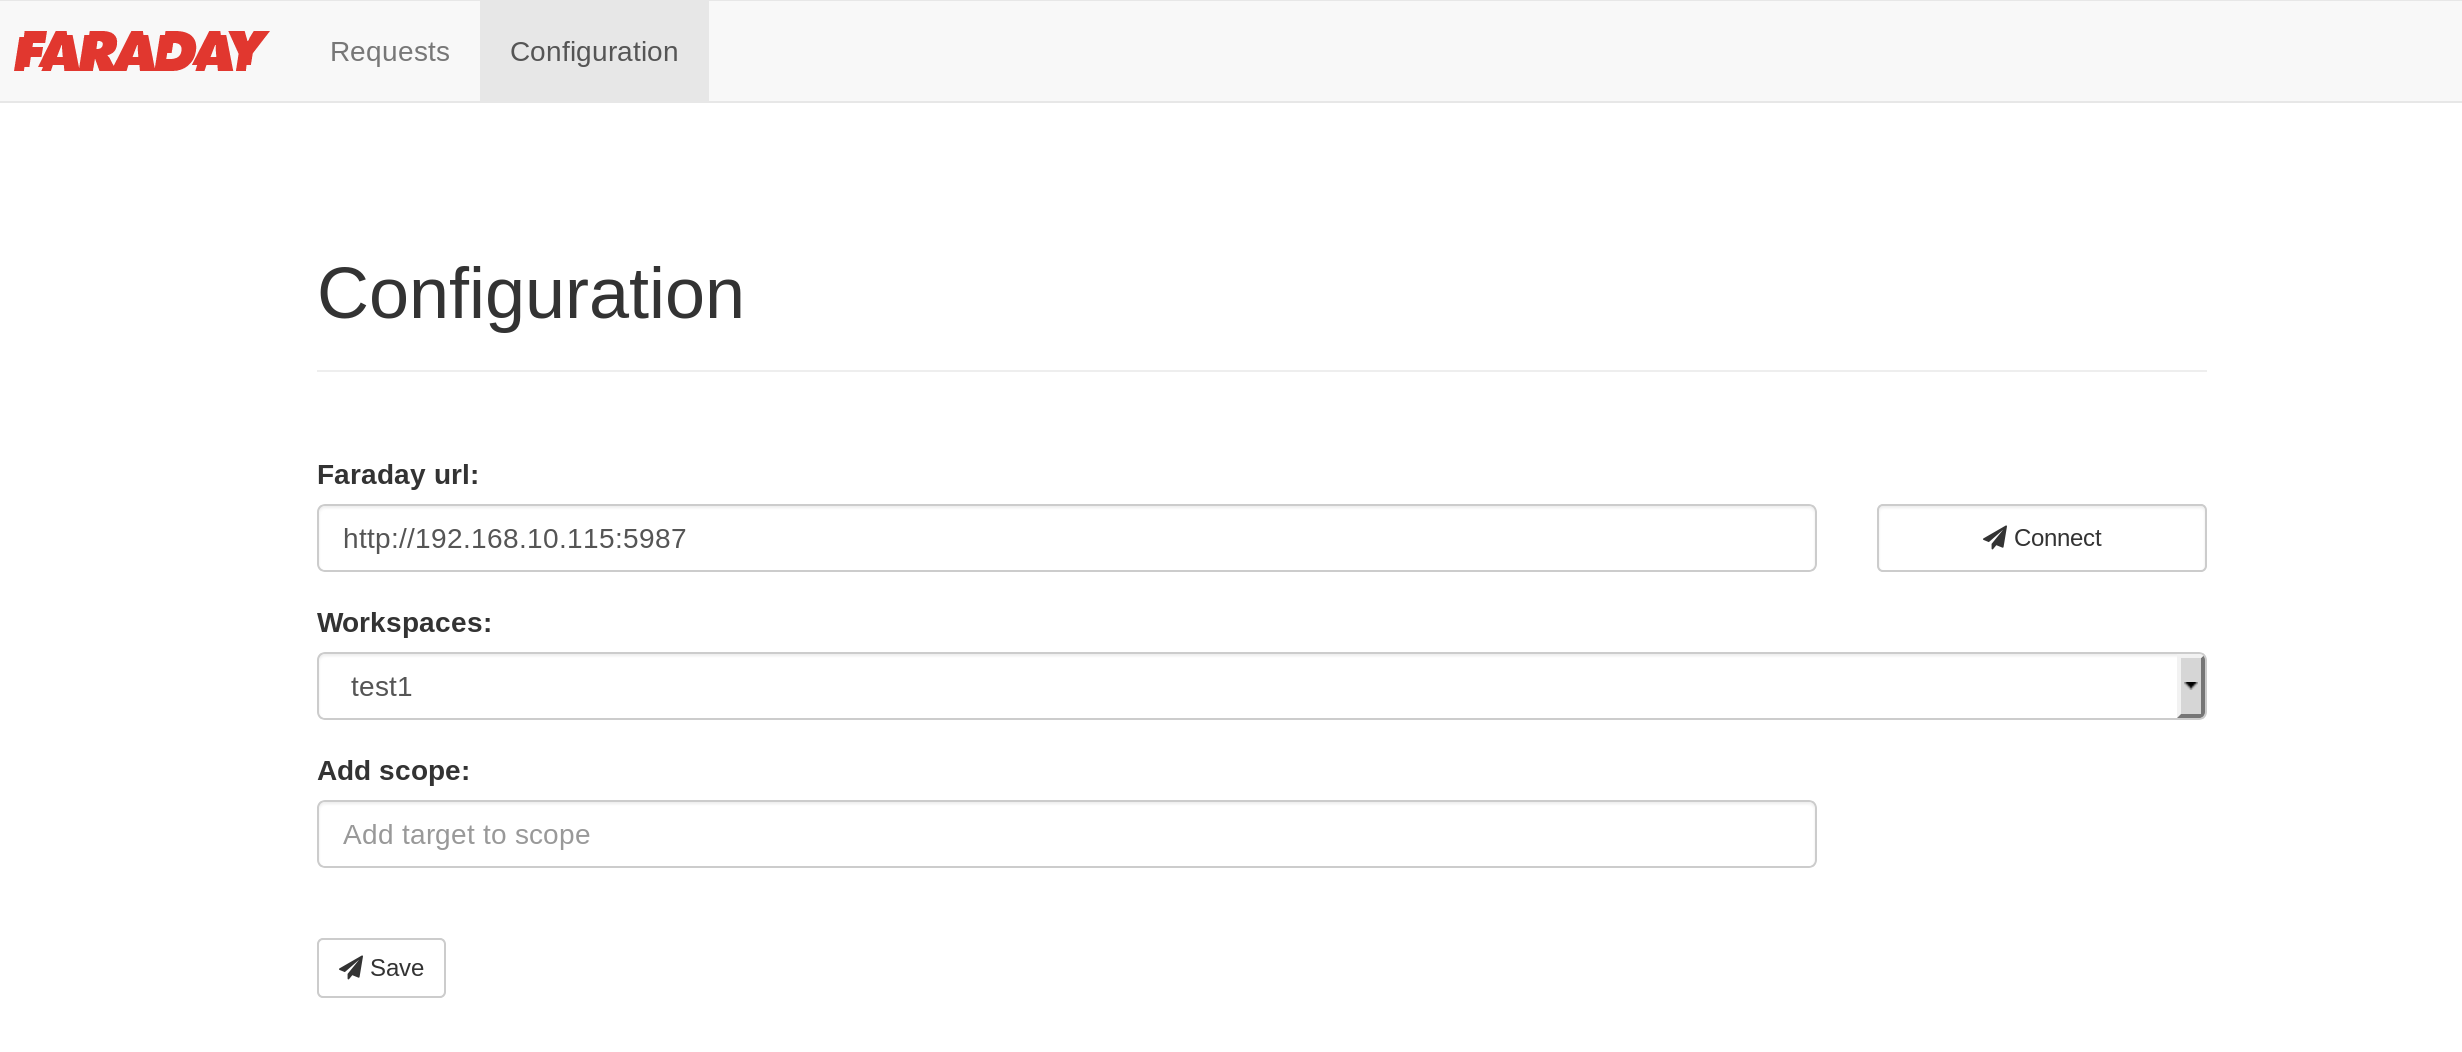
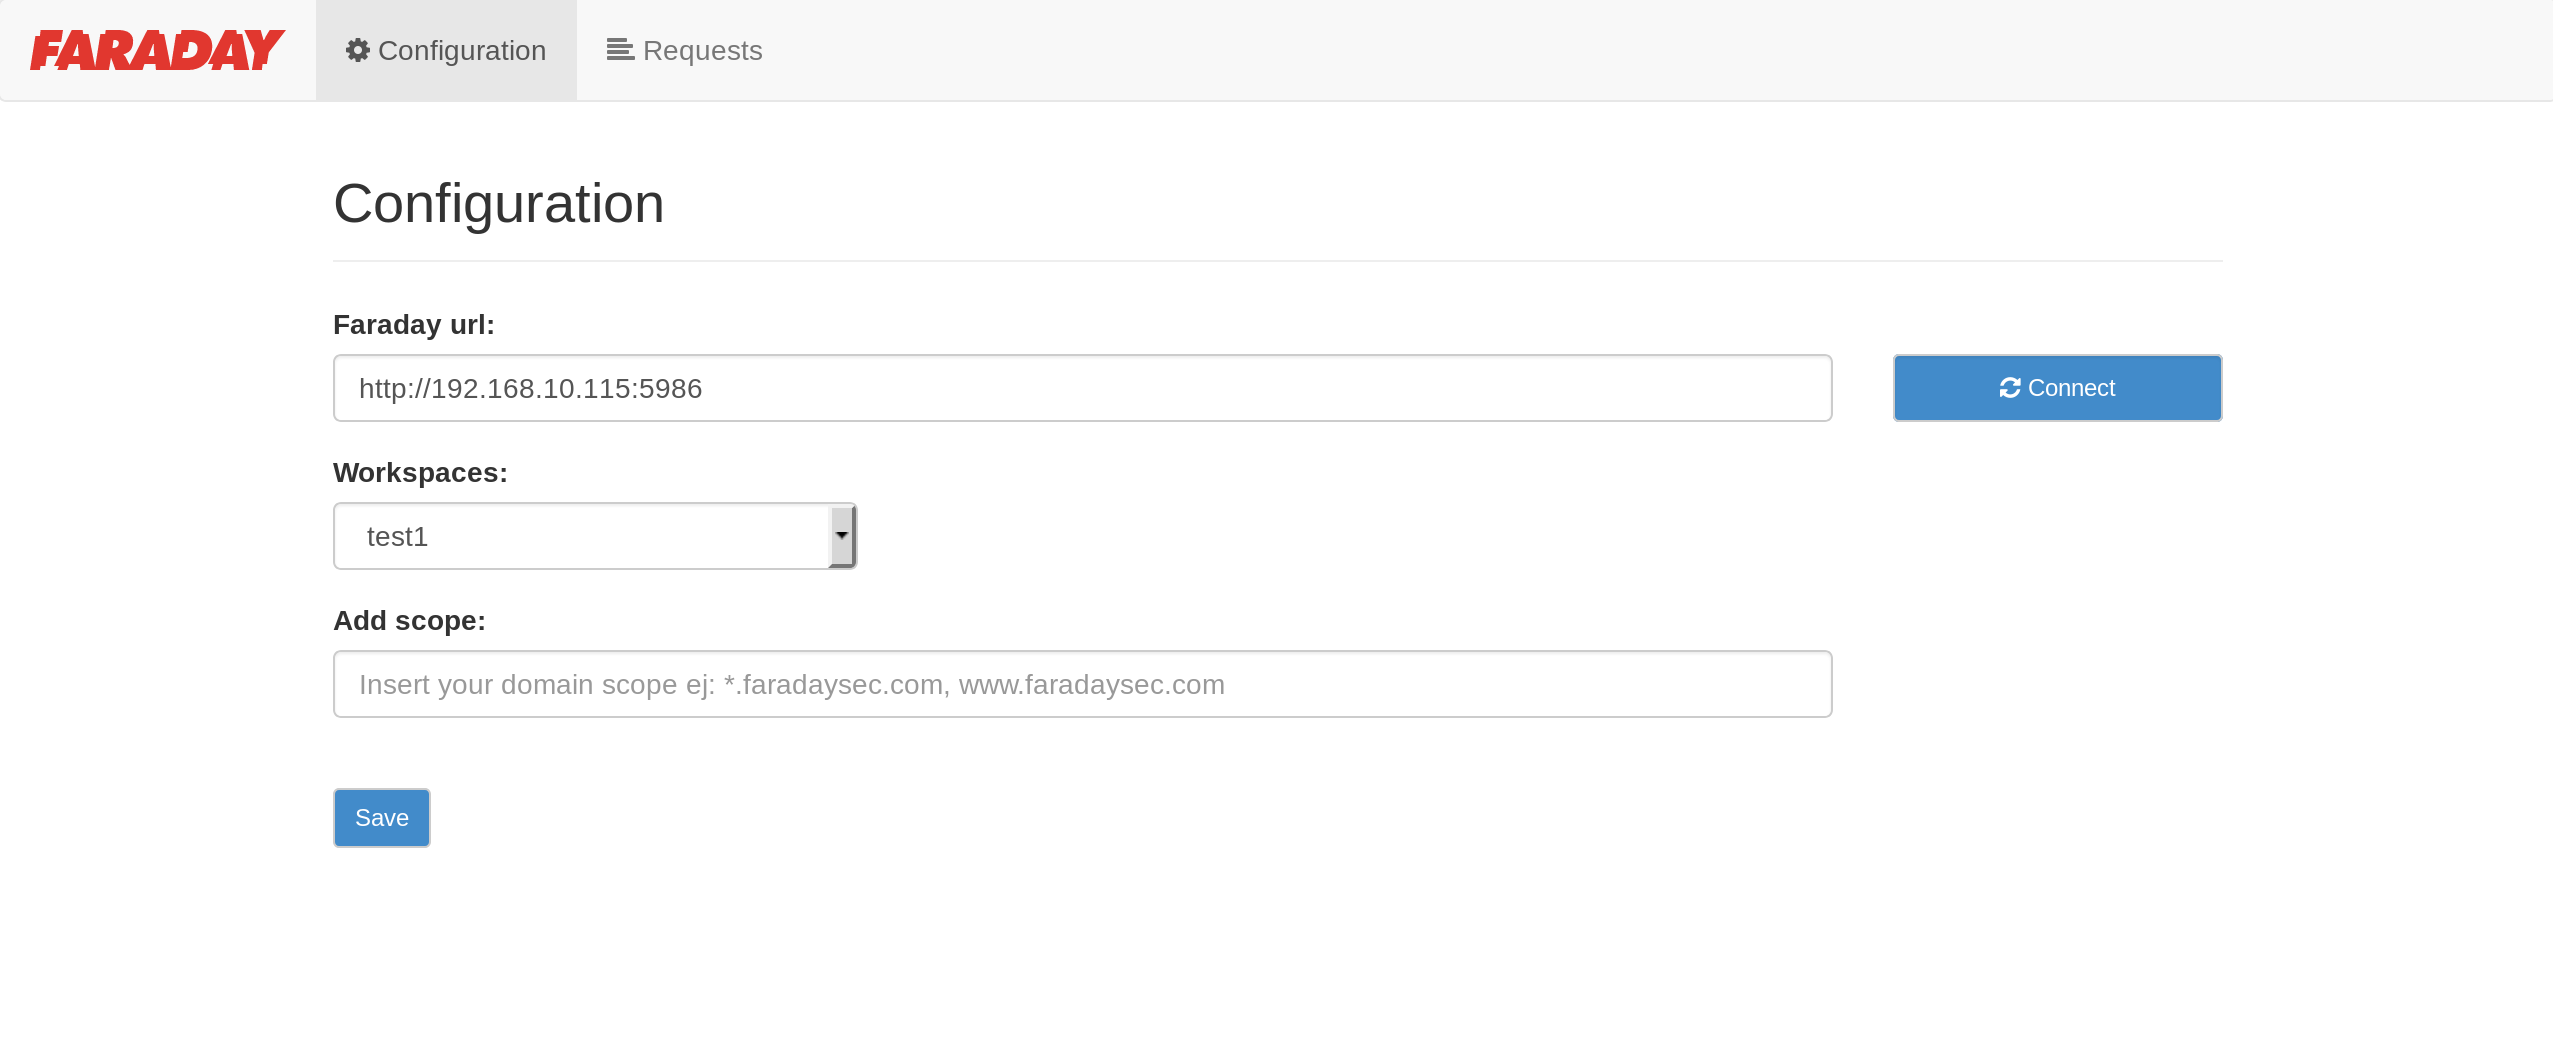
cambios varios imagenes

diff --git a/popup/last_requests.html b/popup/last_requests.html
@@ -25,7 +25,7 @@
     				<tr>
     					<th id="current-workspace"></th>
     					<th class="text-right spacer"><input type="checkbox" name="check-3" value="6" class="lcs_check lcs_tt1" autocomplete="off"></th>
-    					<th class="text-right"><a title="Configuration" target="_blank" class="fa fa-cog  link_menu" href="configuration.html"></a><span class="spacer"> .. </span><a title="Requests" target="_blank" class="fa fa-align-left link_menu" href="requests.html"></a></th>
+    					<th class="text-right switcher"><a title="Configuration" target="_blank" class="fa fa-cog  link_menu" href="configuration.html"></a><span class="spacer"> .. </span><a title="Requests" target="_blank" class="fa fa-align-left link_menu" href="requests.html"></a></th>
     				</tr>
     			</thead>
     			<tbody>

diff --git a/css/mike-style.css b/css/mike-style.css
@@ -46,4 +46,8 @@ a:link{
   color: #fff !important;
   font-size: 15px !important;
   width: 15px !important;
+  text-align: right !important;
   }
+  .switcher {
+    width: 60px;
+    }  
